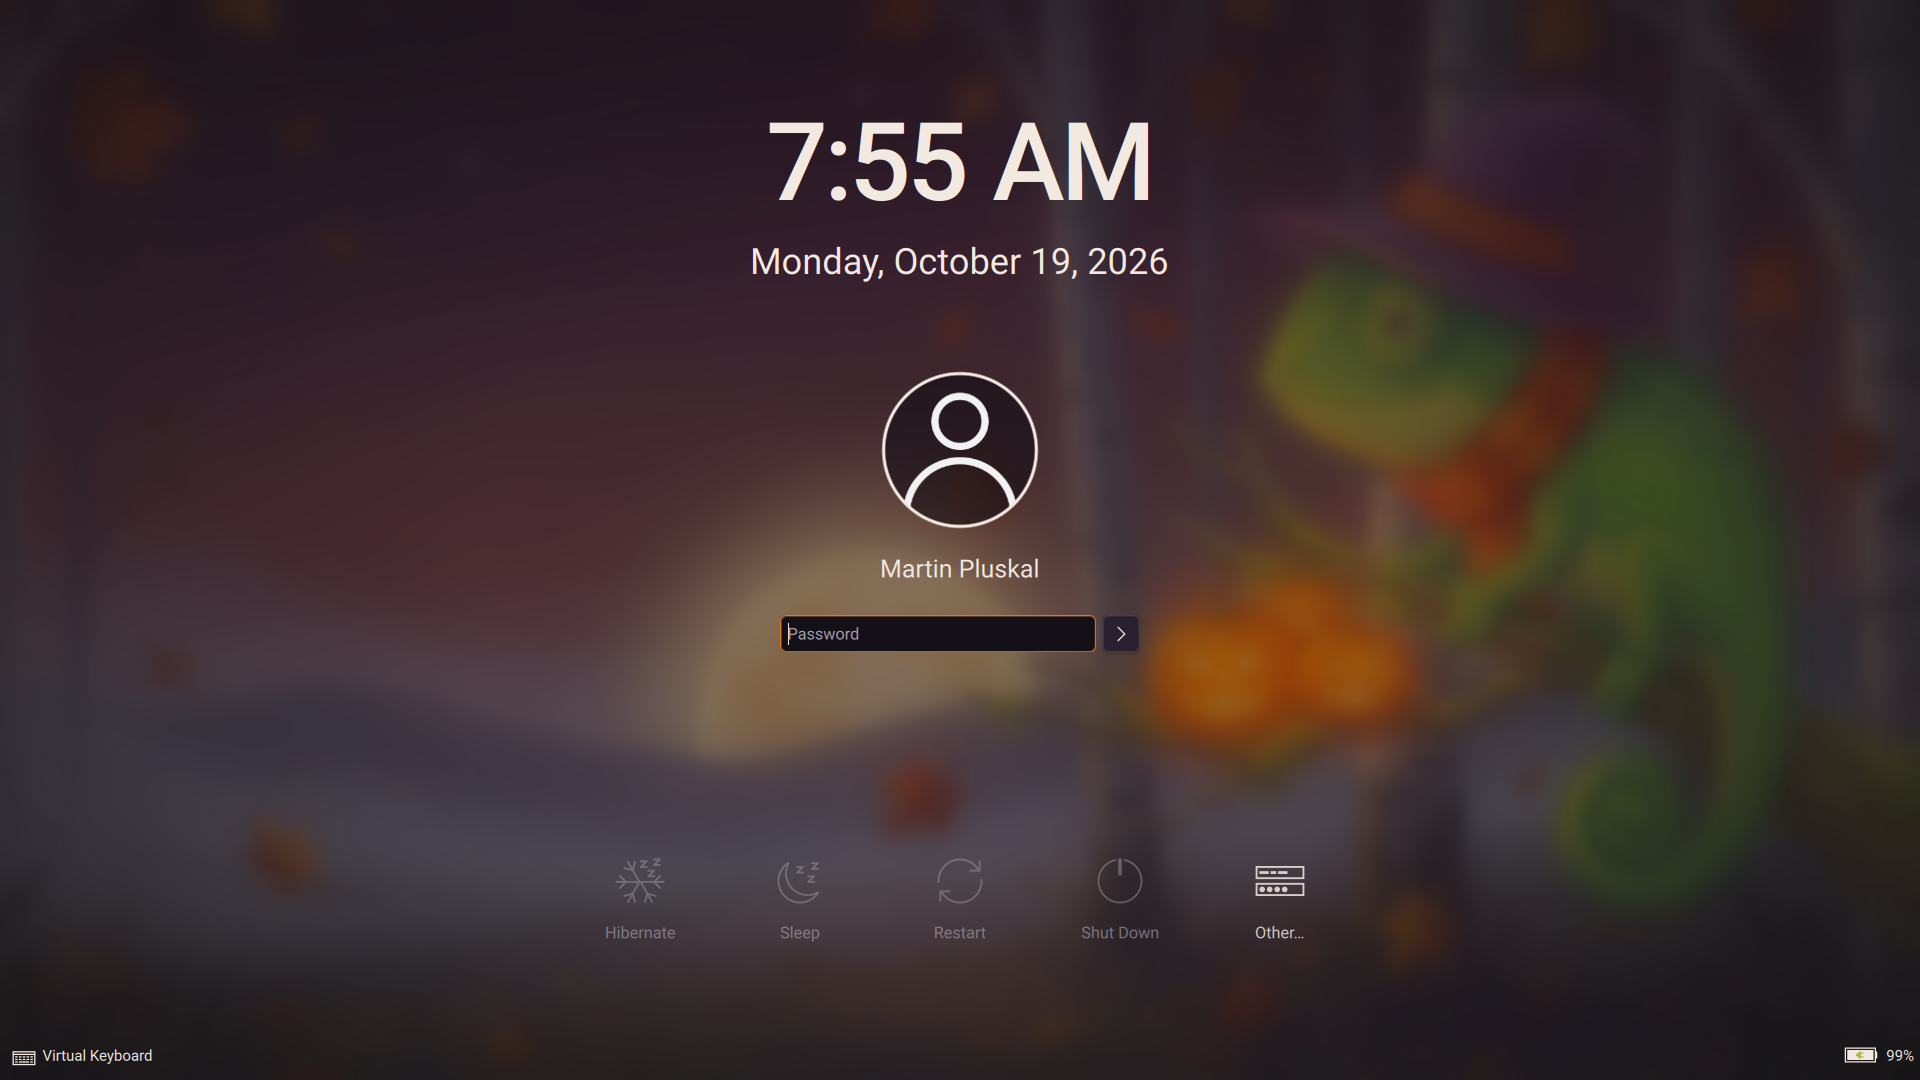
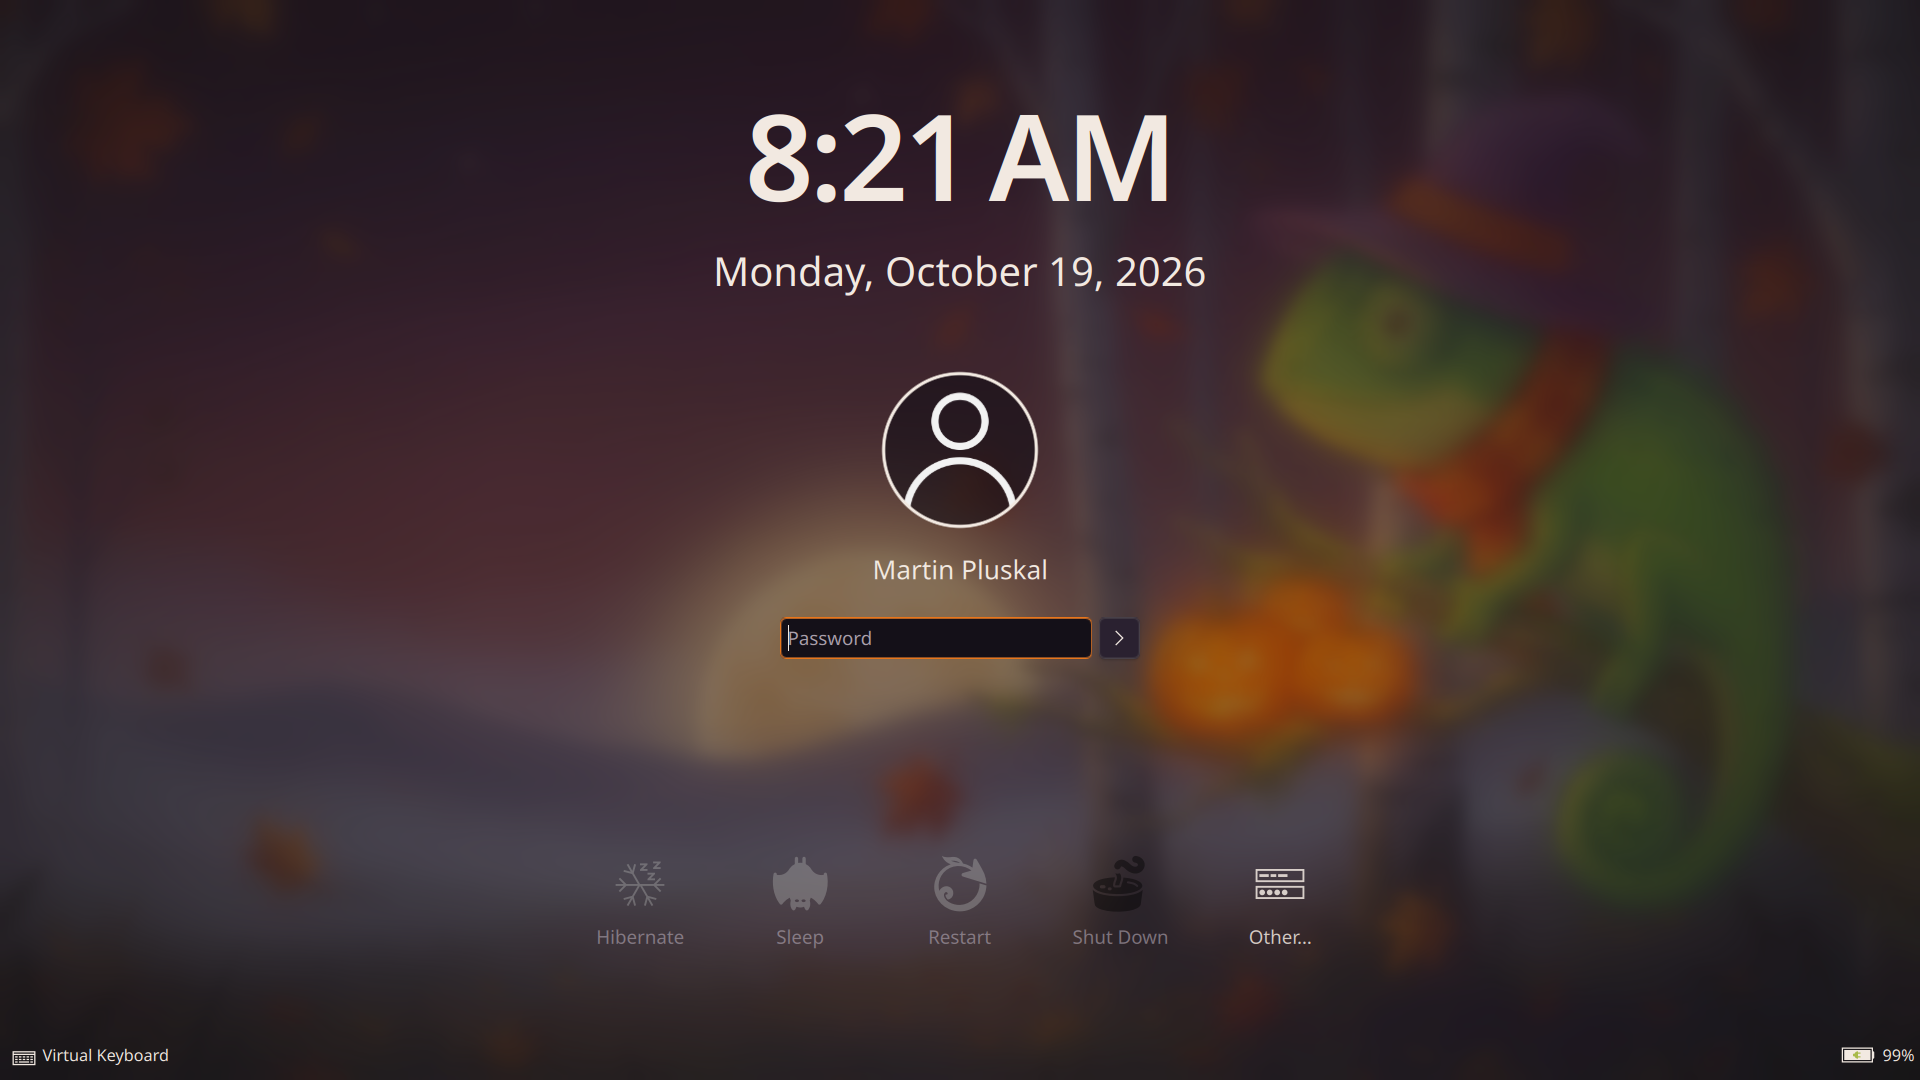
Final screenshots and previews; make theme upgrades show reliably
Screenshots of the clean panel desktop (dusk and night), the app launcher,
the pumpkin clock, Dolphin, the splash, the lock screen and the login
screen, and the look-and-feel, lock screen, splash and SDDM previews made
from them.

The old garland kept showing after it was removed: Plasma reads a style
file by file from ~/.local/share and then /usr/local/share, so a stale
system copy shows through, and plasmashell keeps rendered style SVGs in
memory. install-user.sh now clears the style caches and restarts
plasmashell on an upgrade, and verify.sh checks that the user and system
copies match. build.py creates the previews folder before copying real
previews into it.

diff --git a/tools/build.py b/tools/build.py
@@ -163,6 +163,7 @@ def build_look_and_feel(p, wallpapers, hero, lit, unlit):
           + "".join(f'var {k} = "{p[k]}";\n' for k in ("night", "cream", "pumpkin", "candle")))
 
     previews = out / "contents/previews"
+    previews.mkdir(parents=True, exist_ok=True)
     shots = ROOT / "art/previews"
     made = {
         "preview.png": lambda: panel_mock(crop_to(wallpapers, "dusk", 16 / 9), p).resize((600, 337), Image.LANCZOS),
